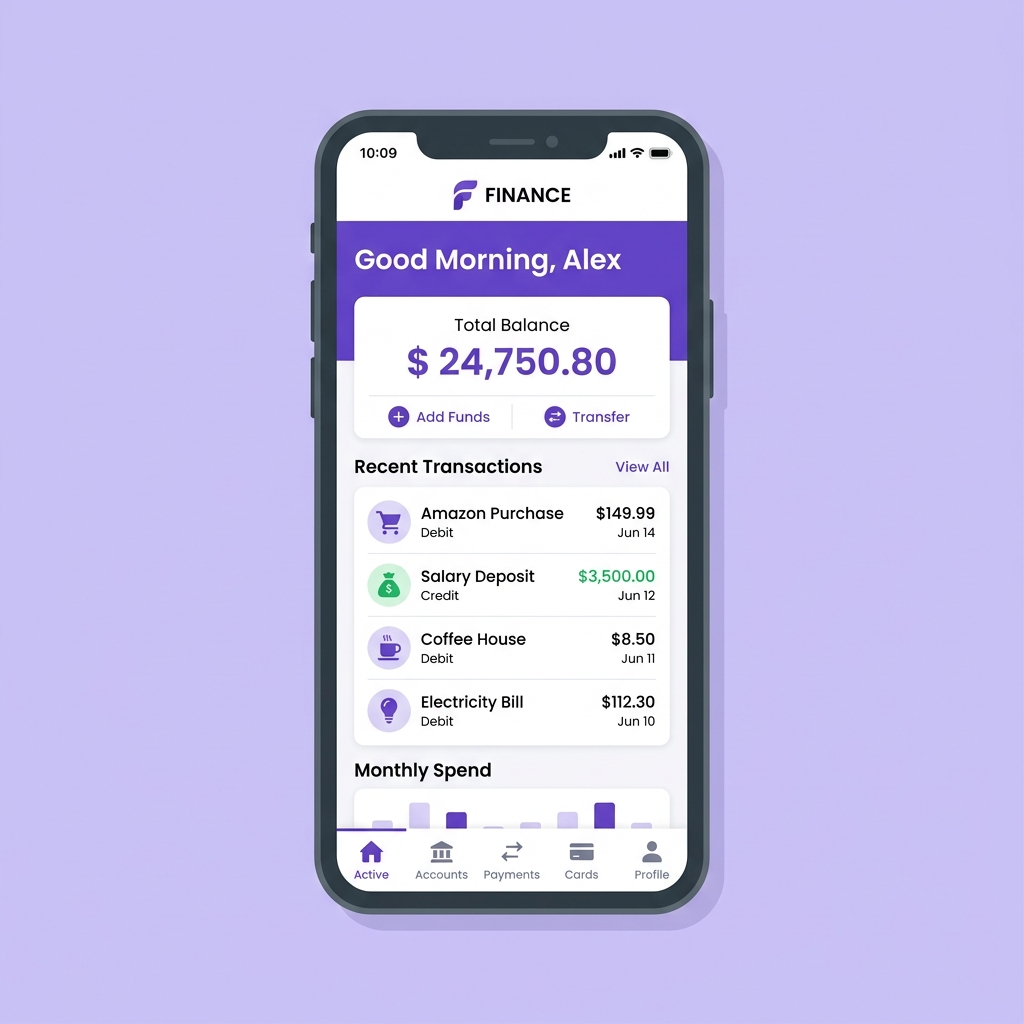
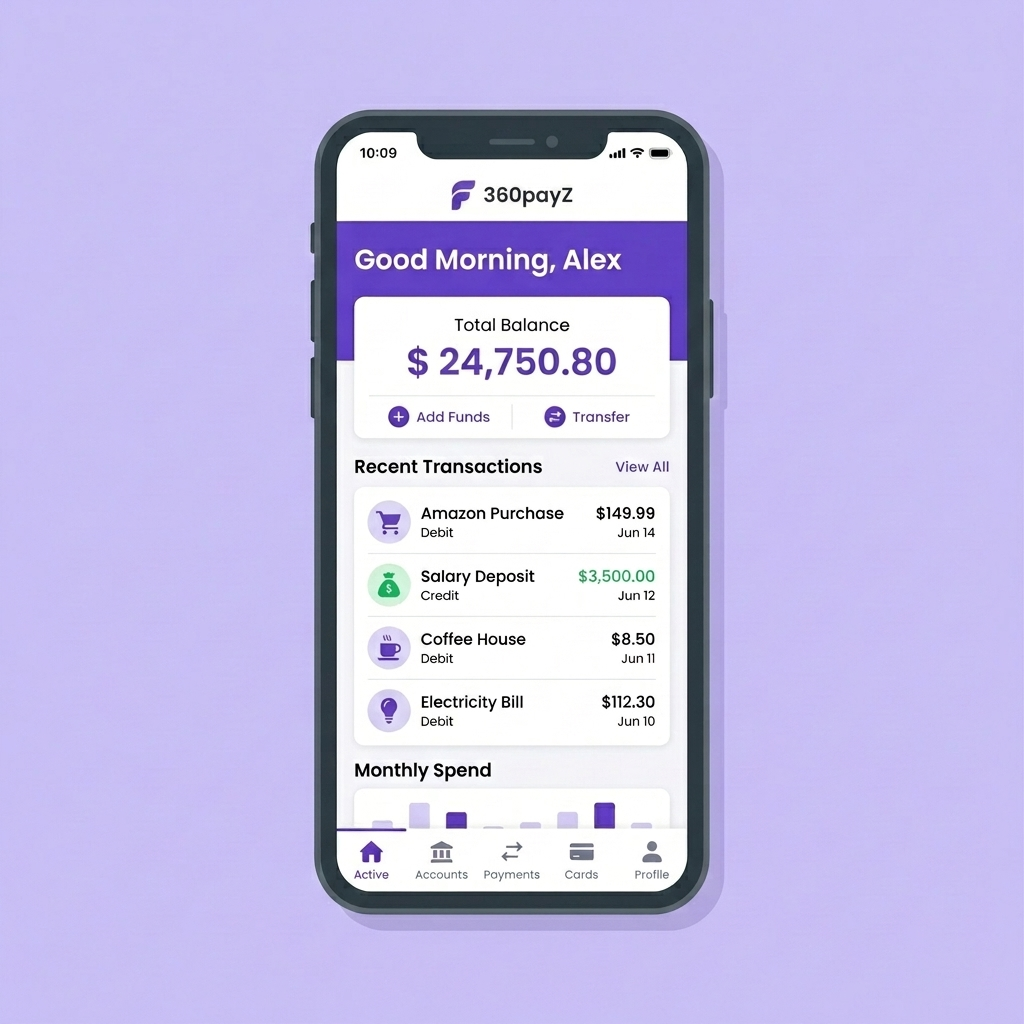
Fix scroll position on navigation, update mobile app mockup, speed up mobile marquee, remove pricing CTA buttons

diff --git a/src/app/page.tsx b/src/app/page.tsx
@@ -349,7 +349,7 @@ export default function LandingPage() {
         </div>
         
         {/* Infinite horizontal marquee */}
-        <div className="flex w-[200%] gap-6 animate-marquee-loop text-white text-xs font-semibold whitespace-nowrap hover:[animation-play-state:paused]">
+        <div className="flex w-[200%] gap-6 animate-marquee-loop [animation-duration:25s] lg:[animation-duration:55s] text-white text-xs font-semibold whitespace-nowrap hover:[animation-play-state:paused]">
           {[
             "SSL Protected", "PAN Verification", "Aadhaar Verification", "Fraud Detection", "24/7 Availability", "Instant Transfers",
             "SSL Protected", "PAN Verification", "Aadhaar Verification", "Fraud Detection", "24/7 Availability", "Instant Transfers",

diff --git a/src/app/pricing/page.tsx b/src/app/pricing/page.tsx
@@ -110,16 +110,6 @@ export default function PricingPage() {
                 ))}
               </div>
             </div>
-            
-            <div className="mt-8">
-              <Link href={t.cta === "Talk to Sales" ? "/contact" : "/get-started"} className={`w-full block text-center py-3 rounded-xl text-sm font-bold transition-all ${
-                t.popular 
-                  ? "bg-primary text-neutral-900 hover:opacity-90 shadow-lg shadow-primary/20" 
-                  : "bg-neutral-900 text-white hover:bg-neutral-800 shadow-md"
-              }`}>
-                {t.cta}
-              </Link>
-            </div>
           </div>
         ))}
       </div>

diff --git a/src/app/layout.tsx b/src/app/layout.tsx
@@ -35,6 +35,8 @@ export const metadata: Metadata = {
   }
 };
 
+import ScrollToTop from "@/components/ScrollToTop";
+
 export default function RootLayout({
   children,
 }: Readonly<{
@@ -43,6 +45,7 @@ export default function RootLayout({
   return (
     <html lang="en" className={`${inter.variable} ${plusJakartaSans.variable} light scroll-smooth`}>
       <body className="antialiased min-h-screen bg-background text-neutral-900 selection:bg-primary selection:text-white">
+        <ScrollToTop />
         {/* Global UI Overlays */}
         <div className="gradient-mesh" />
         <div className="noise-overlay" />

diff --git a/src/components/ScrollToTop.tsx b/src/components/ScrollToTop.tsx
@@ -1,0 +1,14 @@
+"use client";
+
+import { useEffect } from "react";
+import { usePathname } from "next/navigation";
+
+export default function ScrollToTop() {
+  const pathname = usePathname();
+
+  useEffect(() => {
+    window.scrollTo(0, 0);
+  }, [pathname]);
+
+  return null;
+}
